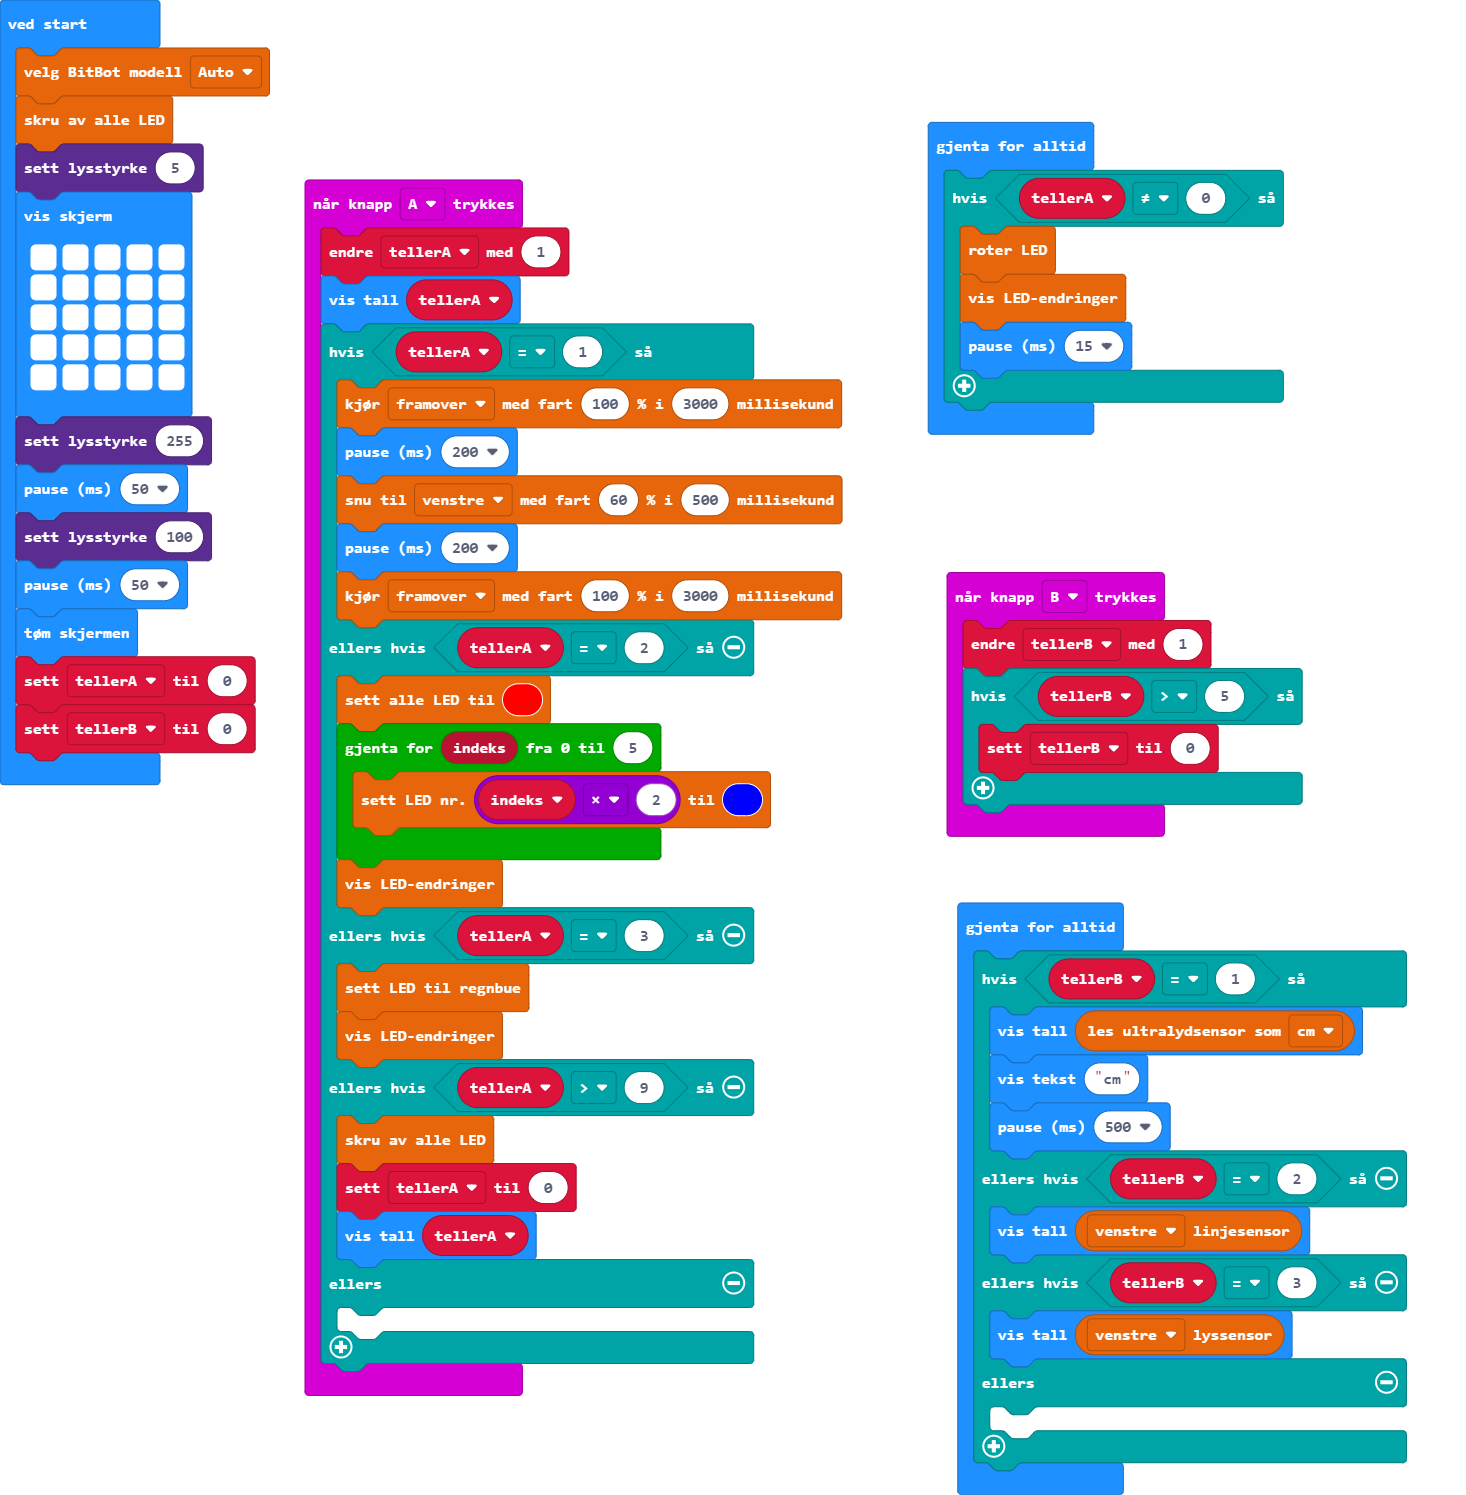
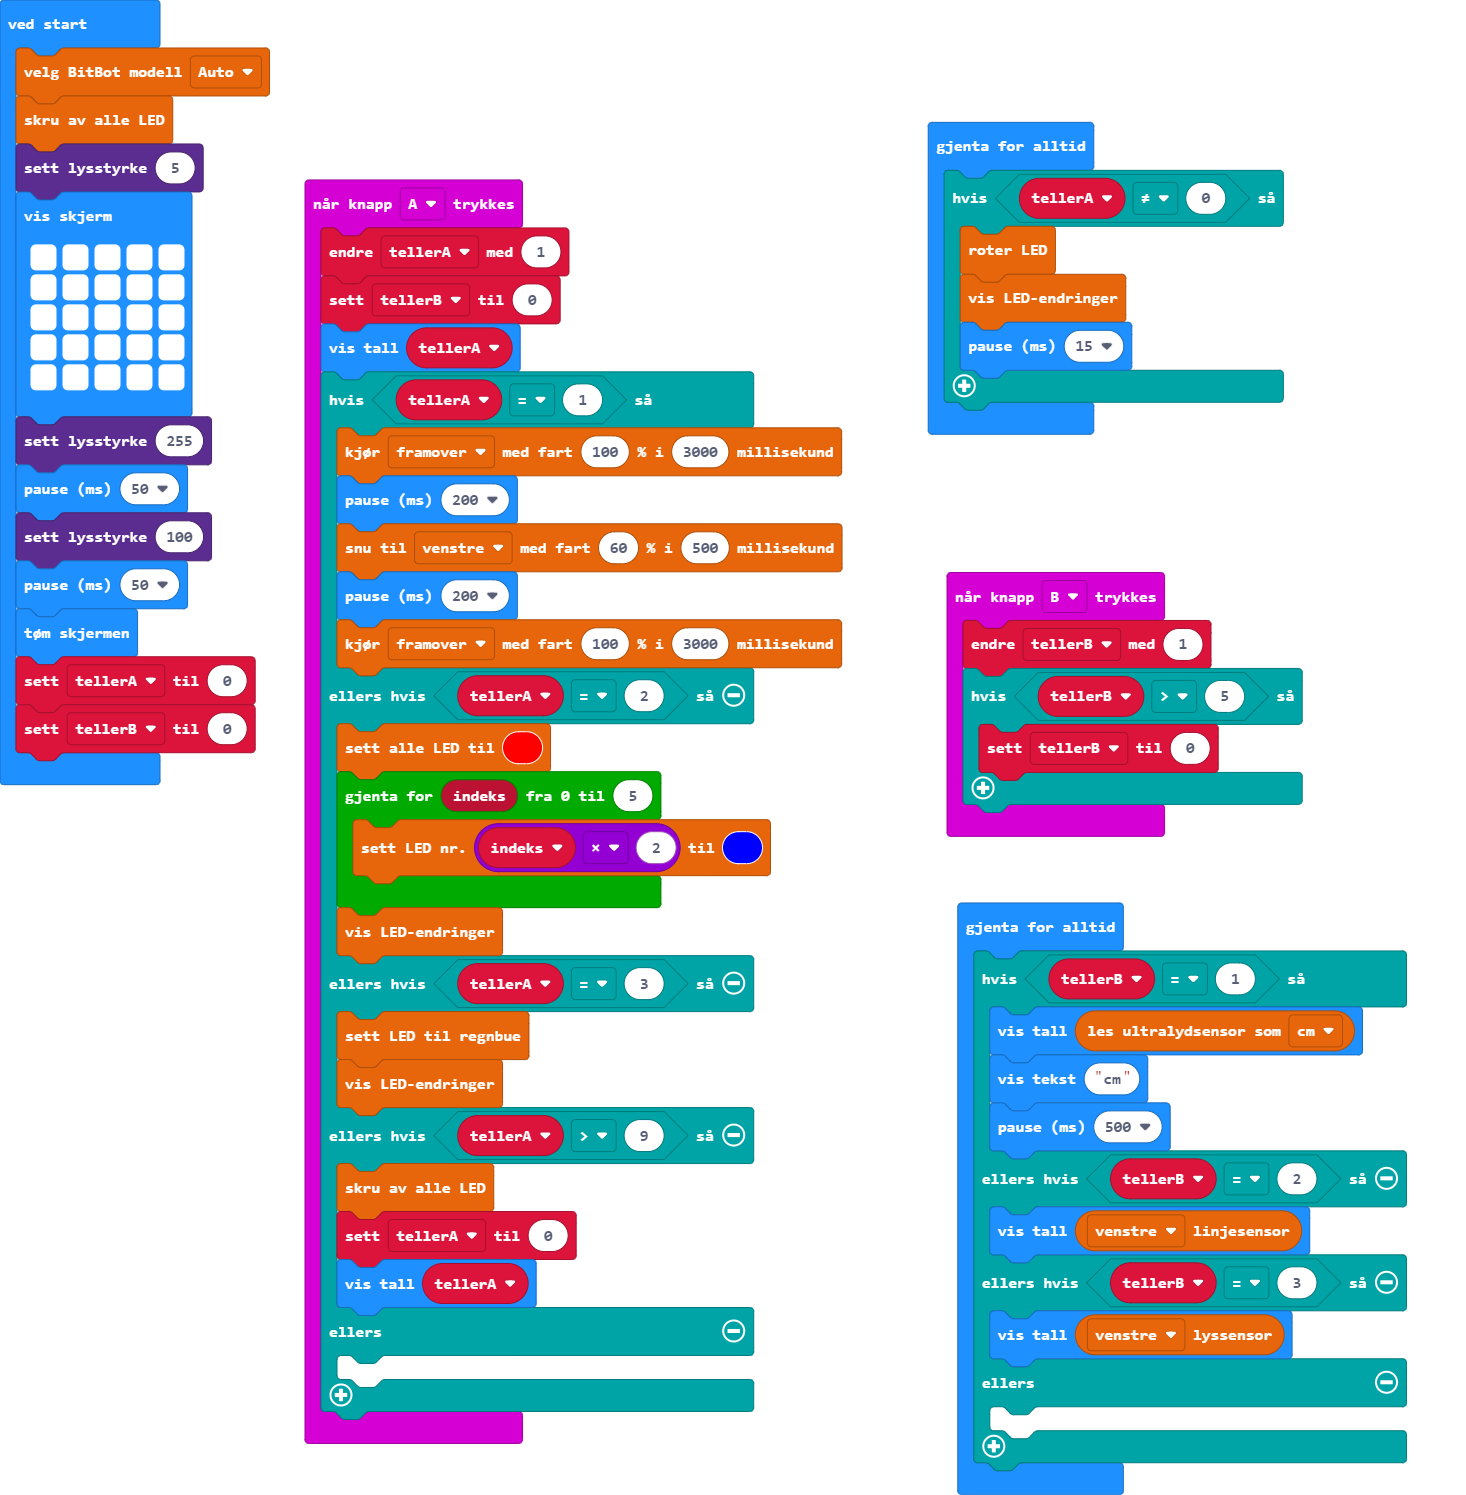
Update main.blocks, main.ts

Changed region(s): [[0.1842, 0.1846, 0.5832, 0.9846]]

diff --git a/main.ts b/main.ts
@@ -1,5 +1,6 @@
 input.onButtonPressed(Button.A, function () {
     tellerA += 1
+    tellerB = 0
     basic.showNumber(tellerA)
     if (tellerA == 1) {
         bitbot.goms(BBDirection.Forward, 100, 3000)
